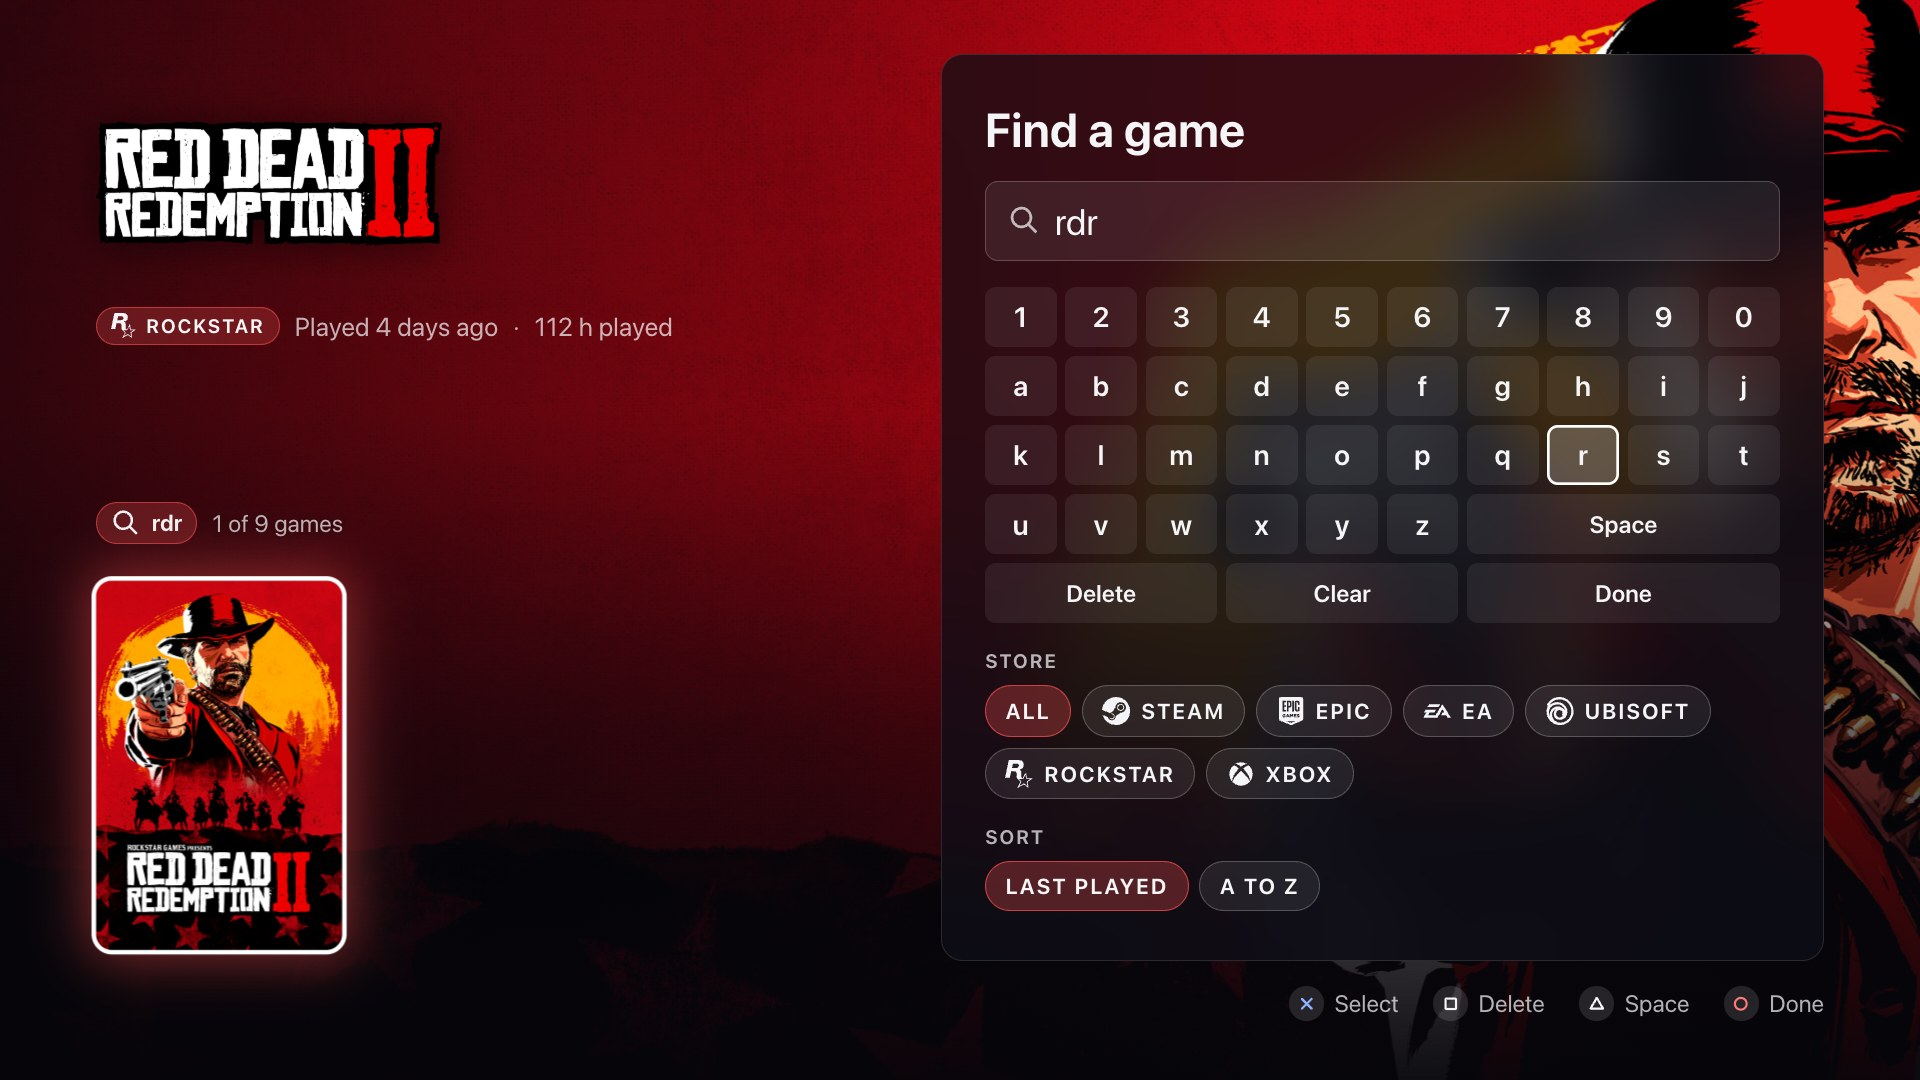
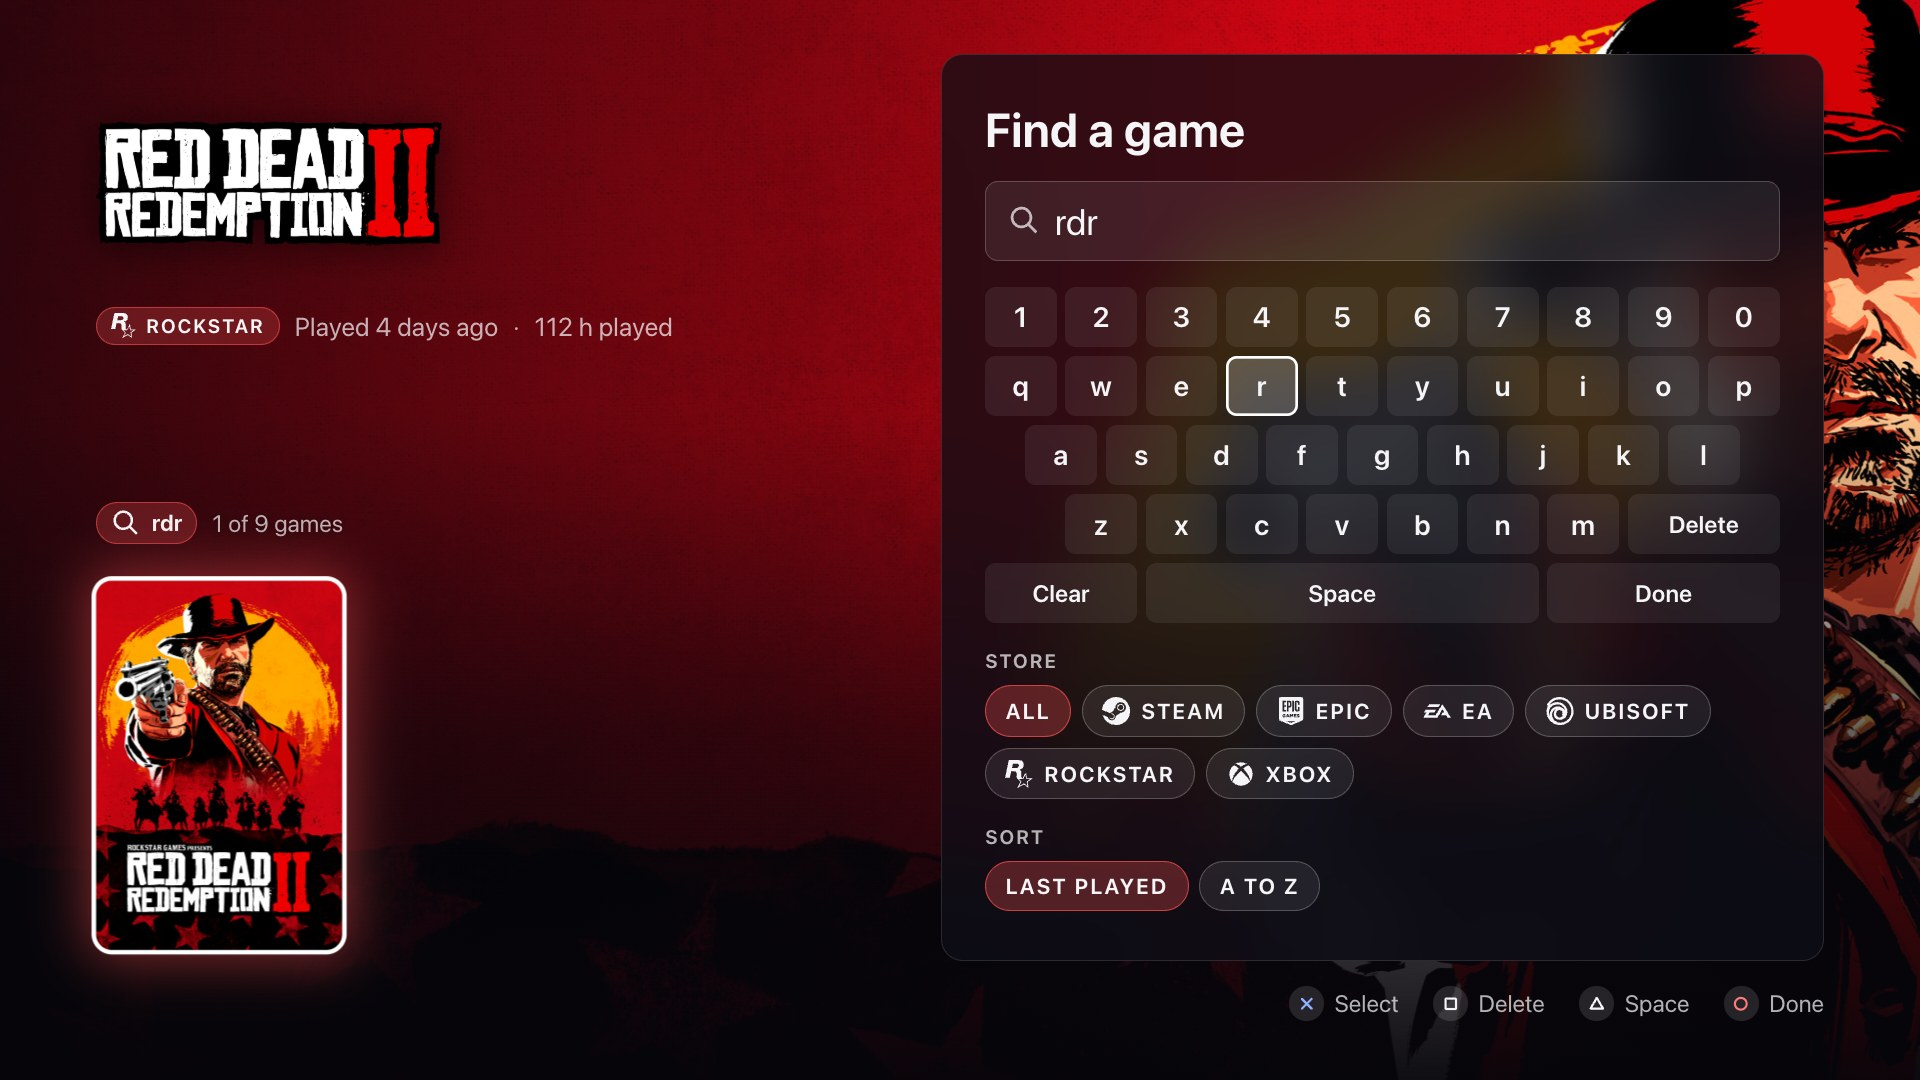
Find: a QWERTY keyboard, its rows staggered as on a real one

diff --git a/ui/find.js b/ui/find.js
@@ -10,29 +10,36 @@ import { els, state, withStoreLogo } from './state.js';
 
 /** @typedef {import('./logic.js').Find} Find */
 
-/** The on-screen keyboard, row by row, in a grid 10 keys wide. */
+/**
+ * The on-screen keyboard, QWERTY, on a grid of half keys (20 columns): each row is its indent in half keys, then its
+ * keys. The rows step right as on a real keyboard; the d-pad goes to the nearest key (logic.js nearest).
+ * @type {[number, string[]][]}
+ */
 const KEYBOARD = [
-  [...'1234567890'],
-  [...'abcdefghij'],
-  [...'klmnopqrst'],
-  [...'uvwxyz', 'space'],
-  ['delete', 'clear', 'done'],
+  [0, [...'1234567890']],
+  [0, [...'qwertyuiop']],
+  [1, [...'asdfghjkl']],
+  [2, [...'zxcvbnm', 'delete']],
+  [0, ['clear', 'space', 'done']],
 ];
-/** The keys that aren't a letter or digit: their label and how many columns they take. */
-const WIDE = { space: ['Space', 4], delete: ['Delete', 3], clear: ['Clear', 3], done: ['Done', 4] };
+/** The keys that aren't a letter or digit: their label and their width in half keys. */
+const WIDE = { space: ['Space', 10], delete: ['Delete', 4], clear: ['Clear', 4], done: ['Done', 6] };
 
 els.findKeys.append(
-  ...KEYBOARD.flat().map((id) => {
-    const key = document.createElement('div');
-    key.className = 'key';
-    key.dataset.id = id;
-    const [label, span] = WIDE[id] ?? [id, 1];
-    key.textContent = label;
-    if (span > 1) {
-      key.classList.add('wide');
-      key.style.gridColumn = `span ${span}`;
-    }
-    return key;
+  ...KEYBOARD.flatMap(([indent, ids], row) => {
+    // Every key gets its own column: left to the grid, a key would fill the gap the indent leaves.
+    let column = indent + 1;
+    return ids.map((id) => {
+      const key = document.createElement('div');
+      key.className = 'key';
+      key.dataset.id = id;
+      const [label, span] = WIDE[id] ?? [id, 2];
+      key.textContent = label;
+      if (span > 2) key.classList.add('wide');
+      key.style.gridArea = `${row + 1} / ${column} / auto / span ${span}`;
+      column += span;
+      return key;
+    });
   })
 );
 

diff --git a/ui/style.css b/ui/style.css
@@ -427,7 +427,8 @@ body.launching .cover.focus { scale: 1.1; }
   #findQuery::after { animation: none; }
 }
 
-#findKeys { display: grid; grid-template-columns: repeat(10, 1fr); gap: .8vh; }
+/* Half-key columns, so the QWERTY rows can step right by half a key (find.js KEYBOARD). */
+#findKeys { display: grid; grid-template-columns: repeat(20, 1fr); gap: .8vh; }
 .key {
   display: grid;
   place-items: center;
